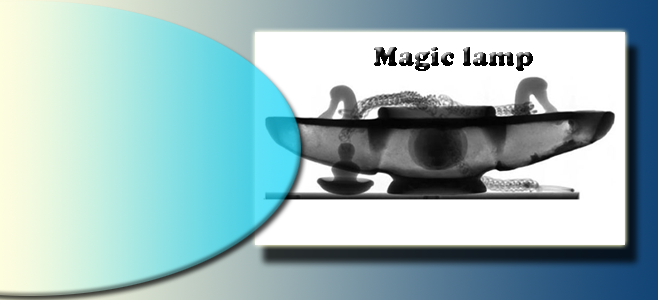
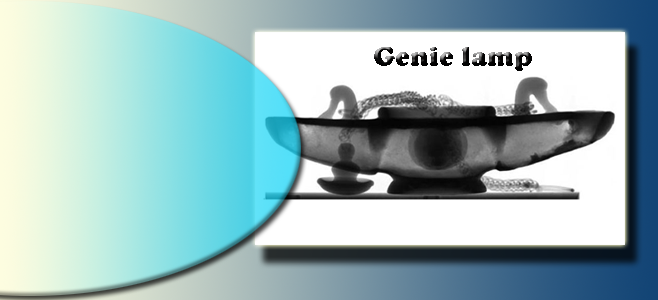
Improved display and added archaeology in the news.

Changed region(s): [[0.5471, 0.15, 0.8207, 0.24]]

diff --git a/ancient_lamp.html b/ancient_lamp.html
@@ -4,8 +4,8 @@
 	<head>
 		<meta http-equiv="Content-Type" content="text/html; charset=ISO-8859-1" />
 		<title>Welcome to the ORNL NIT web site</title>
-		<link rel="stylesheet" type="text/css" href="../styles/index.css" />
-		<link rel="stylesheet" type="text/css" href="index.css" />
+		<link rel="stylesheet" type="text/css" href="styles/index.css" />
+		<link rel="stylesheet" type="text/css" href="styles/ancient_lamp.css " />
 	</head>
 	<body>
 		<div id="container">
@@ -29,7 +29,7 @@
 				</div>
 			</div>
 			<div id="contact">
-				<a href="../index.html">Home</a>&nbsp;&nbsp;&nbsp;&nbsp;&nbsp;<a href="">Contact us</a>
+				<a href="index.html">Home</a>&nbsp;&nbsp;&nbsp;&nbsp;&nbsp;<a href="">Contact us</a>
 			</div>
 			<div id="content">
 				<div class="article">
@@ -59,7 +59,7 @@
 						a colonial-period plantation in Rhode Island. The samples include artifacts from daily life: a clothing buckle, a knife, and some building hardware.
 					</p>
 					<div id="photo1" class="floating_image_left">
-						<img src='hassina-krysta-taking-2d-image.jpg' alt='Hassina and Krysta taking 2D image at CG1D' />
+						<img src='images/hassina-krysta-taking-2d-image.jpg' alt='Hassina and Krysta taking 2D image at CG1D' />
 						<p>
 							Instrument scientist Hassina Bilheux (left) and principal investigator Krysta Ryzewski, assistant professor of
 							anthropology at Wayne State University, taking 2-D images of the oil lamp artifact.
@@ -117,7 +117,7 @@
 						which tend to vary in composition, size, and density" Ryzewski says.
 					</p>
 					<div id="photo2" class="floating_image_right">
-						<img src='lamp-scan.jpg' alt='Photo of ancient greek lamp and radiograph of same lamp' />
+						<img src='images/lamp-scan.jpg' alt='Photo of ancient greek lamp and radiograph of same lamp' />
 						<p>
 							Top: photo of ancient Greek lamp. Bottom: neutron radiograph of the same lamp.
 						</p>
@@ -145,18 +145,21 @@
 					</p>
 					<p>
 						The group will publish their results in both archaeological and neutron sciences academic publications. In addition,
-						they will present their initial findings at the annual Society for American Archaeology meetings in Memphis in April 2012.
-<!-- 					</p><p id='bottom_page'></p> -->
-					<p><a id="top_of_page" href="#">Top of page</a></p>
+						they will present their initial findings at the annual Society for American Archaeology meetings in Memphis in April 2012. <!-- 					</p><p id='bottom_page'></p> -->
+						<p>
+							<a id="top_of_page" href="#">Top of page</a>
+						</p>
 				</div>
 			</div>
-			<script src="../scripts/animated_background.js" type="text/javascript"></script>
-			<script src="../scripts/jQuery.js" type="text/javascript"></script>
-			<script src="../scripts/jquery-1.6.2.min.js" type="text/javascript"></script>
-			<script src="../scripts/menu_buttons.js" type"text/javascript"></script>
-			<script src="../scripts/jquery.easing.1.3.js" type="text/javascript"></script>
-			<script src="../scripts/jquery.kwicks-1.5.1.pack.js" type="text/javascript"></script>
-			<script src="../scripts/jquery.scrollTo.js" type="text/javascript" charset="utf-8"></script>
-			<script src="../scripts/my_scripts.js" type="text/javascript" charset="UTF-8"></script>
+			<script src="scripts/jQuery.js" type="text/javascript"></script>
+			<script src="scripts/my_scripts.js" type="text/javascript" charset="UTF-8"></script>
+			<script src="scripts/animated_background.js" type="text/javascript"></script>
+			<script src="scripts/jquery-1.3.2.min.js" type="text/javascript"></script>
+			<script src="scripts/menu_buttons.js" type"text/javascript"></script>
+			<script src="scripts/jquery.easing.1.3.js" type="text/javascript"></script>
+			<script src="scripts/jquery.hoverIntent.minified.js" type="text/javascript"></script>
+			<script src="scripts/jquery.kwicks-1.5.1.pack.js" type="text/javascript"></script>
+			<script src="scripts/jquery.scrollTo.js" type="text/javascript" charset="utf-8"></script>
+			<!-- 			<script src="scripts/my_scripts.js" type="text/javascript" charset="UTF-8"></script> -->
 	</body>
 </html>

diff --git a/index.html b/index.html
@@ -8,7 +8,7 @@
 		<link rel="stylesheet" type="text/css" href="styles/jquery-ui-1.7.2.custom.css" />
 		<link rel="stylesheet" type="text/css" href="styles/tabs.css" />
 		<link rel="stylesheet" type="text/css" href="styles/showroom.css" />
-<!-- 		<link rel="stylesheet" type="text/css" href="styles/index.css" /> -->
+		<!-- 		<link rel="stylesheet" type="text/css" href="styles/index.css" /> -->
 	</head>
 	<body>
 		<!-- turn this on to see the page flip at the top right corner of the window -->
@@ -46,7 +46,7 @@
 					<div id="onglets">
 						<a href="" id="showroom_legend_1">
 						<div class="showroom_text">
-							Ancient lamp
+							Genie lamp
 						</div> </a>
 					</div>
 					<div id="onglets">
@@ -64,7 +64,7 @@
 					<div id="onglets">
 						<a href="" id="showroom_legend_4">
 						<div class="showroom_text">
-							Person of the month
+							VIP of the month
 						</div> </a>
 					</div>
 					<div id="onglets">
@@ -81,17 +81,28 @@
 					</div>
 				</div>
 				<div id="showroom_left">
-					<!-- 				<img src="images/showroom_lamp_left.png" alt="" width="658" height="325" /> -->
+				<img src="images/showroom_lamp_left.png" alt="" width="658" height="325" />
 				</div>
 			</div>
 			<!-- bottom right tab -->
 			<div id="bottom_right">
-				<div id="tutorial">
-				</div>
+				<div id="tutorial"></div>
 				<div id="cg1d"></div>
 				<div id="venus">
-					<div id="title">Venus</div>
-					<div id="text_info">Futur<br />neutron <br />imaging <br />beam line <br /> at the SNS</div>
+					<div id="title">
+						Venus
+					</div>
+					<div id="text_info">
+						Futur
+						<br />
+						neutron
+						<br />
+						imaging
+						<br />
+						beam line
+						<br />
+						at the SNS
+					</div>
 				</div>
 			</div>
 			<!-- bottom left tab -->
@@ -99,7 +110,7 @@
 				<div id="info">
 					<ul>
 						<li>
-							<a href="#intro">Intro</a>
+							<a href="#intro">In the news</a>
 						</li>
 						<li>
 							<a href="about.html">About StarTrackr!</a>
@@ -110,7 +121,12 @@
 					</ul>
 					<div id="intro">
 						<p>
-							Welcome to <strong>StarTrackr!</strong> the planet's premier celebrity tracking and monitoring service. Need to know where in the world the best bands, musicians or producers are within 2.2 square meters? You've come to the right place. We have a very special special on B-grade celebs this week, so hurry in!
+							<a href="ancient_lamp.html"> <img src="images/articles/ArchaeologyMagazine.png" alt="January/February 2012 edition of Archeology Magazine" width=75% height=75% />
+							<div id="contain">
+								The January/February edition of Archaeology Magazine features
+								<br />
+								an article about the "lamp experiment"
+							</div> </a>
 						</p>
 					</div>
 				</div>
@@ -130,5 +146,5 @@
 		<script src="scripts/showroom.js" type="text/javascript"></script>
 		<script src="scripts/jquery-ui-1.7.2.custom.min.js" type="text/javascript"></script>
 		<script src="scripts/bottom_right.js" type="text/javascript"></script>
-			</body>
+	</body>
 </html>

diff --git a/team.html b/team.html
@@ -101,12 +101,10 @@
 						
 					</p>
 					<p>Developper of the iMars application as well as in charge
-					of this web site. Contact if you have any question related to 
-					the software.
+					of this web site. Do not hesitate to contact me for any questions you may have.
 					</p>
-					<p>I like to fly gliders, photography. I like the smell of the roses
-						when the sun is about to rise.</p> 
-					
+					<p>When I'm not in front of my mac, I like spending time with my family. I'm also
+						a glider pilot flying, a hobbyist photographer. I like soccer (big fan of PSG), tennis, biking... and so much more.
 				</div>
 			</div>
 			<!-- script files -->

diff --git a/styles/tabs.css b/styles/tabs.css
@@ -4,6 +4,7 @@
 	border: 1px solid #999;
 	padding: 0px 10px;
 	background-color: #fff;
+	font-size: 0.8em;
 }
 #info p {
 	width: inherit;
@@ -47,4 +48,12 @@
 
 #info {
 	margin-top: -20px;
+}
+
+div#tab{
+	text-align:center;
+}
+
+#contain {
+	font-size: 0.8em;
 }
